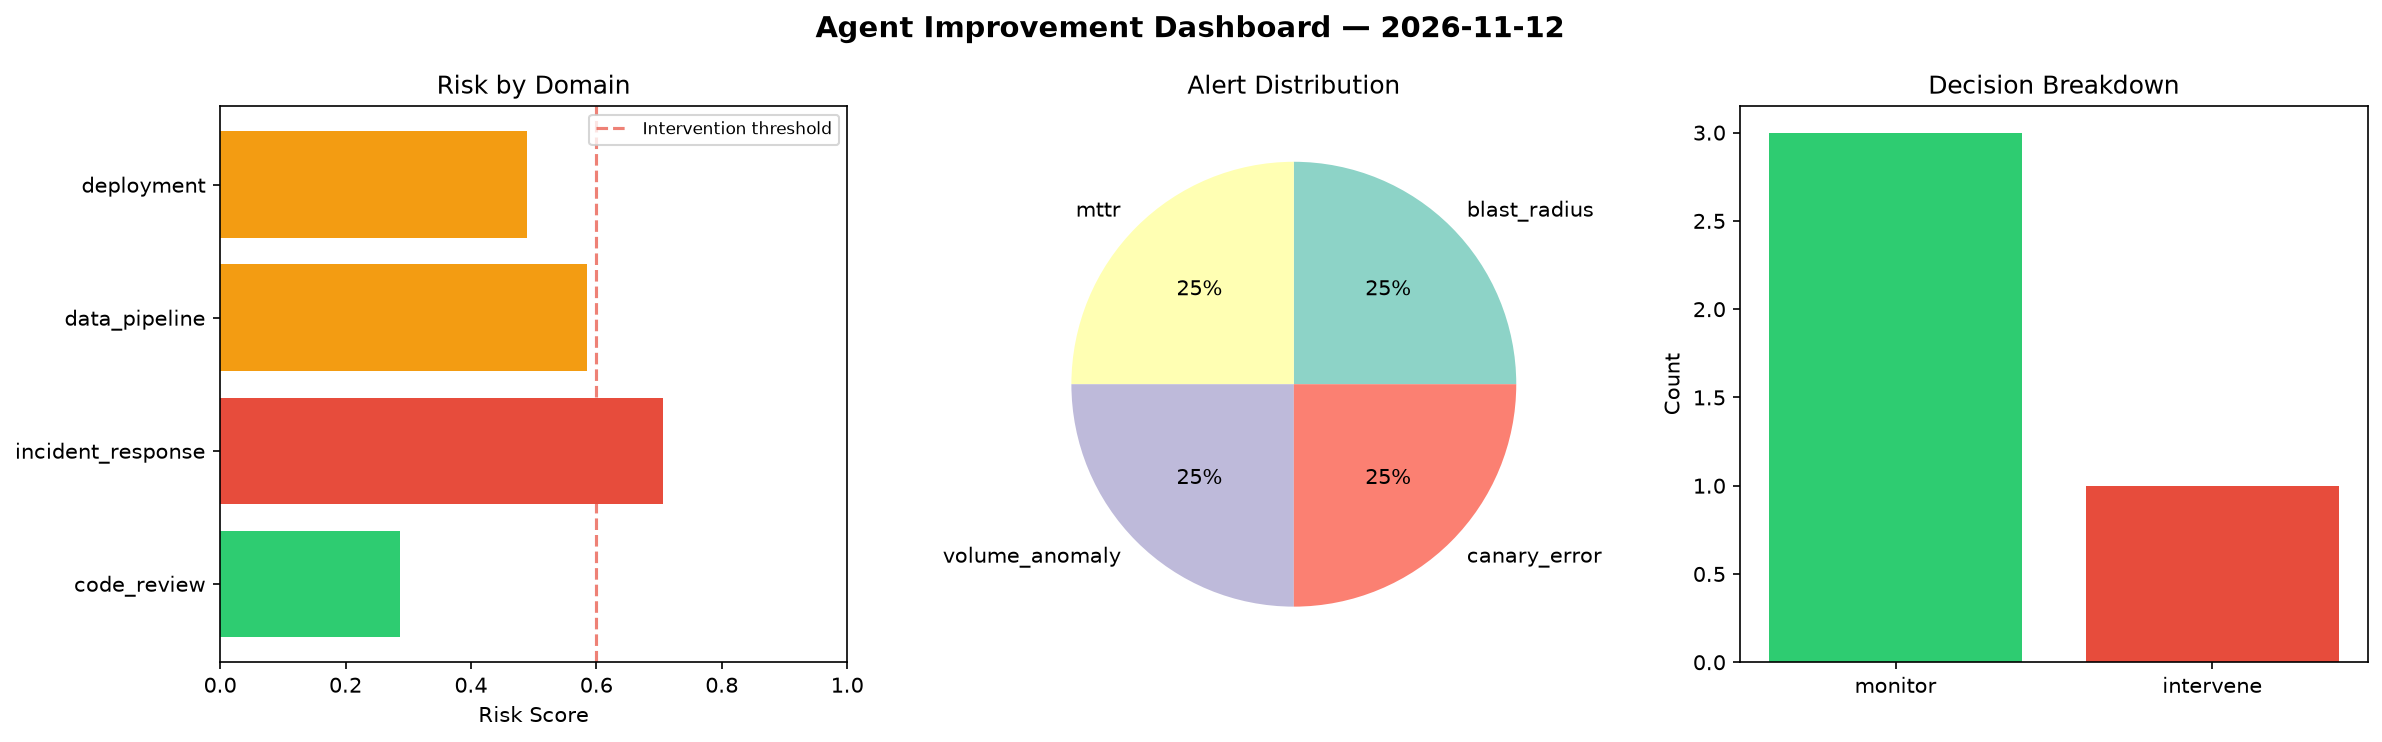
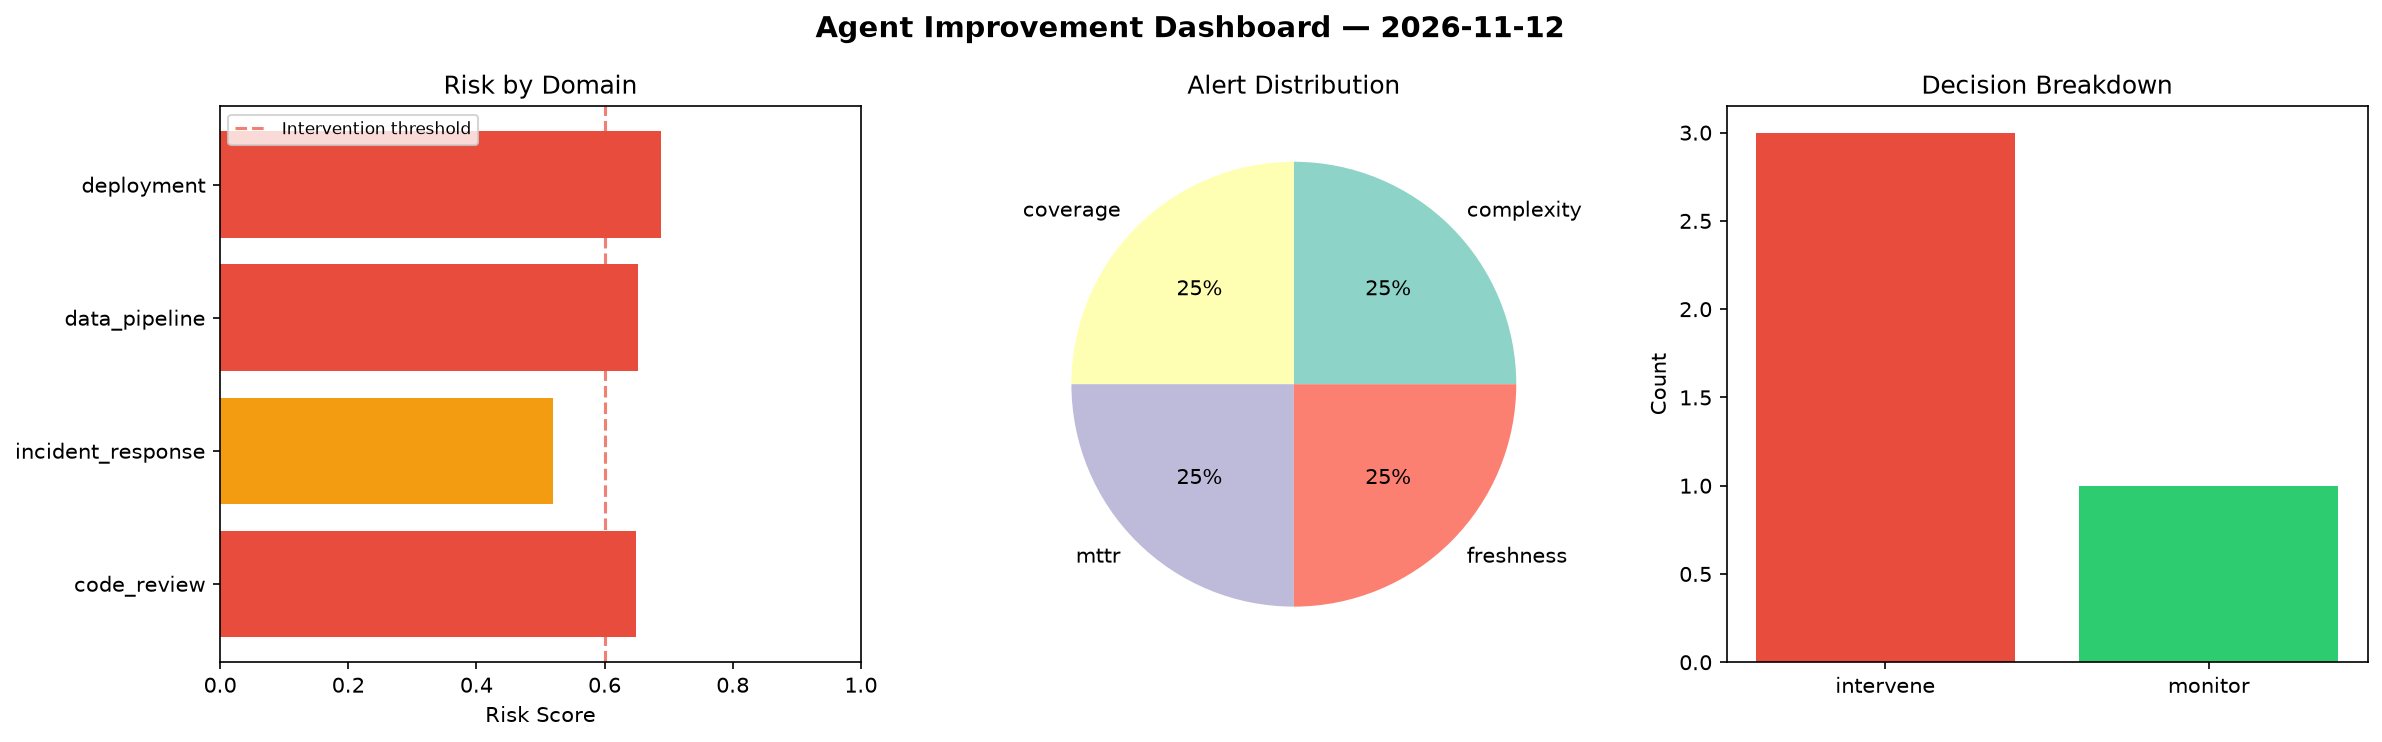
agent-improvement: daily cycle 2026-11-12T21:28

diff --git a/logs/2026-11-12.md b/logs/2026-11-12.md
@@ -1,6 +1,6 @@
 # Agent Improvement Report — 2026-11-12
 
-**Cycle ID:** `2957807d` | **Avg Risk:** 0.5166 | **Interventions:** 1/4
+**Cycle ID:** `32bd5c3c` | **Avg Risk:** 0.6271 | **Interventions:** 3/4
 
 ![Dashboard](2026-11-12_dashboard.png)
 
@@ -10,18 +10,18 @@
 
 | Domain | Risk Score | Decision | Alerts |
 |--------|-----------|----------|--------|
-| code_review | 0.2866 | monitor | none |
-| incident_response | 0.7058 | intervene | blast_radius, mttr |
-| data_pipeline | 0.5848 | monitor | volume_anomaly |
-| deployment | 0.4892 | monitor | canary_error |
+| code_review | 0.6493 | intervene | complexity, coverage |
+| incident_response | 0.5192 | monitor | mttr |
+| data_pipeline | 0.6514 | intervene | freshness |
+| deployment | 0.6886 | intervene | none |
 
 ## Delta vs Yesterday
 
 | Domain | Today | Yesterday | Change |
 |--------|-------|-----------|--------|
-| code_review | 0.2866 | 0.3105 | 📉 -7.7% |
-| incident_response | 0.7058 | 0.8115 | 📉 -13.0% |
-| data_pipeline | 0.5848 | 0.6925 | 📉 -15.6% |
-| deployment | 0.4892 | 0.604 | 📉 -19.0% |
+| code_review | 0.6493 | 0.3105 | 📈 109.1% |
+| incident_response | 0.5192 | 0.8115 | 📉 -36.0% |
+| data_pipeline | 0.6514 | 0.6925 | 📉 -5.9% |
+| deployment | 0.6886 | 0.604 | 📈 14.0% |
 
 **Refinement:** `{'adjustment': 'tighten_thresholds', 'trend': 'degrading', 'window': 4}`
